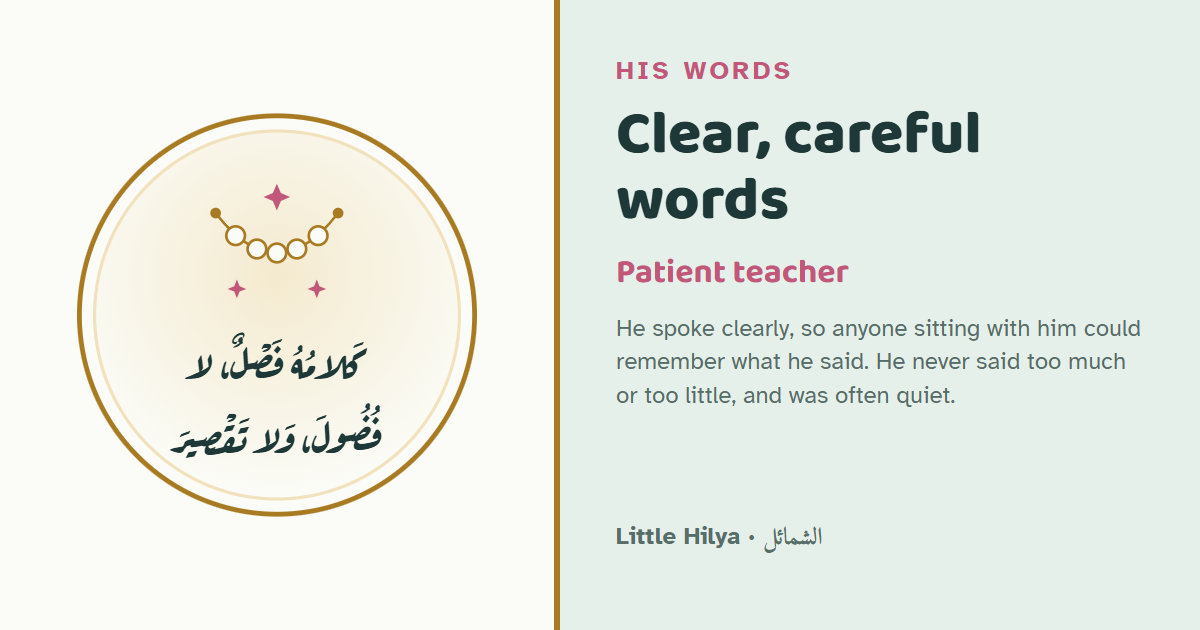
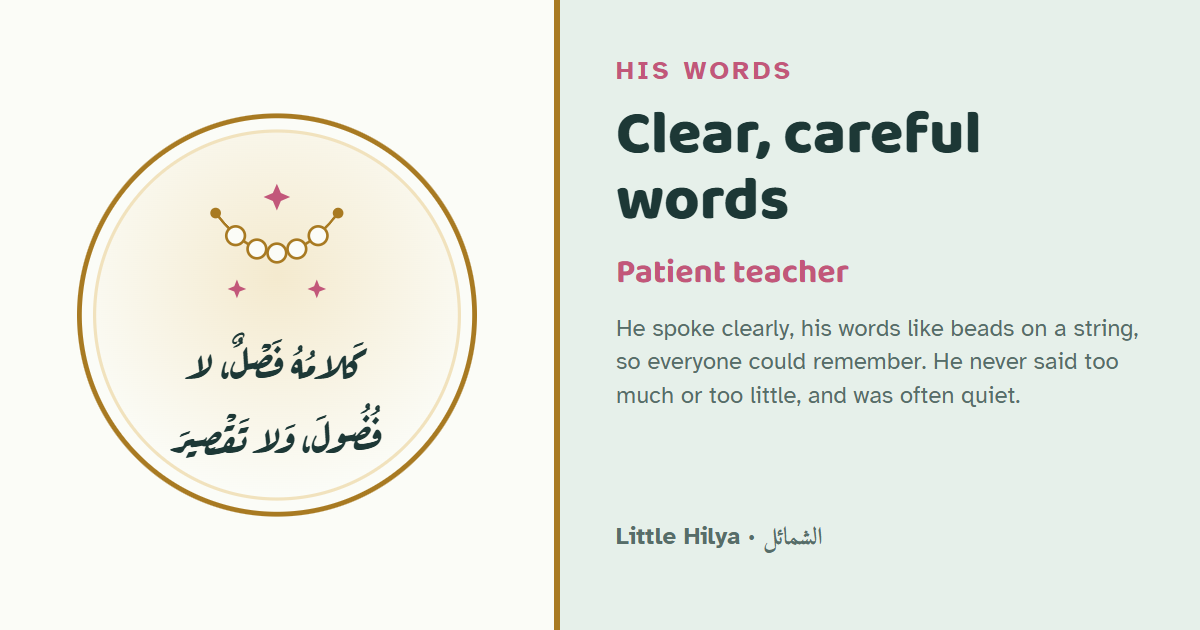
Add Umm Ma'bad's beads, 'A'isha's countable words and the silence reports to the speech station

Changed region(s): [[0.4933, 0.5127, 0.9558, 0.6635]]

diff --git a/src/data/stations/13-speech.ts b/src/data/stations/13-speech.ts
@@ -7,24 +7,52 @@ export default defineStation({
   icon: "pearls",
   phrase: "كَلامُهُ فَصْلٌ، لا فُضُولَ، وَلا تَقْصِيرَ",
   title: "Clear, careful words",
-  line: "He spoke clearly, so anyone sitting with him could remember what he said. He never said too much or too little, and was often quiet.",
+  line: "He spoke clearly, his words like beads on a string, so everyone could remember. He never said too much or too little, and was often quiet.",
   physical: [
     {
       ref: "shamail:224",
       phrase: "كَلامُهُ فَصْلٌ، لا فُضُولَ، وَلا تَقْصِيرَ",
       gloss: "His speech was concise, neither excessive nor abridged.",
+      note: "Faṣl: clear, separating truth from falsehood (al-Nihāya, al-Haytamī); or each phrase set apart so the listener is not muddled or rushed; or the just middle between too much and too little, which “no excess, no falling short” then explains (al-Qārī).",
+    },
+    {
+      ref: "hakim:4274",
+      phrase: "حُلْوُ الْمَنْطِقِ، فَصْلًا، لَا نَزْرٌ وَلَا هَذْرٌ، كَأَنَّ مَنْطِقَهُ خَرَزَاتُ نَظْمٍ يَتَحَدَّرْنَ",
+      gloss:
+        "Sweet of speech, clear and distinct, neither too little nor rambling, as if his words were beads on a string, coming down one after another.",
+      note: "Umm Maʿbad, a second witness to Hind’s “neither excessive nor abridged”. Nazr is too little, as when someone struggles to speak (al-Nihāya); hadhr is babbling (Ibn Fāris).",
     },
     {
       ref: "shamail:222",
-      phrase: "يَتَكَلَّمُ بِكَلامٍ بَيِّنٍ فَصْلٍ، يَحْفَظُهُ مَنْ جَلَسَ إِلَيْهِ",
+      phrase: "يَتَكَلَّمُ بِكَلامٍ بَيِّنٍ فَصْلٍ، يَحْفَظُهُ مَنْ جَلَسَ إِلَيْهِ",
       gloss:
         "He would pause periodically, so that those who sat with him would remember what he said.",
       note: "The Arabic says “he spoke clear, distinct speech that whoever sat with him could memorise”; “pause periodically” is an interpretation.",
     },
     {
+      ref: "bukhari:3567",
+      phrase: "كَانَ يُحَدِّثُ حَدِيثًا لَوْ عَدَّهُ الْعَادُّ لأَحْصَاهُ",
+      gloss:
+        "He spoke in such a way that anyone who wanted to count his words could have counted them.",
+      note: "Al-Haytamī: he set his sentences apart so a listener could count them, which helps the words stay in the mind. ʿĀʾisha adds in the same report that he did not rush his words on one after another (lam yakun yasrud).",
+    },
+    {
+      ref: "ibnsad:1/375-4",
+      phrase: "تَرْتِيلٌ وَتَرْسِيلٌ",
+      gloss: "There was a measured, unhurried pace in his speech.",
+      note: "Jābir, through an unnamed shaykh. Al-Nihāya: tarsīl is the same as tartīl, and a man is mutarassil in his speech and his walk when he does not hurry.",
+    },
+    {
       ref: "shamail:224",
-      phrase: "طَوِيلُ السَّكْتِ، لا يَتَكَلَّمُ فِي غَيْرِ حَاجَةٍ",
+      phrase: "طَوِيلُ السَّكْتِ، لا يَتَكَلَّمُ فِي غَيْرِ حَاجَةٍ",
       gloss: "Prolonged in silence. He would not speak unnecessarily.",
+      note: "Lisān al-ʿArab: a man is called sikkīt when he speaks little, not from being unable to: when he speaks, he speaks well. In al-Ṭabarānī’s wording of Hind’s report, his silence was for four things: forbearance, caution, weighing things up and reflection.",
+    },
+    {
+      ref: "ahmad:20810",
+      phrase: "وَكَانَ طَوِيلَ الصَّمْتِ",
+      gloss: "And he was often silent.",
+      note: "Jābir ibn Samura, by a connected chain: the same as Hind’s طَوِيلُ السَّكْتِ.",
     },
   ],
   character: [
@@ -32,14 +60,29 @@ export default defineStation({
       trait: "Patient teacher",
       line: "He would repeat his words three times so that everyone could understand.",
       ref: "shamail:223",
-      basis: "reflection",
+      basis: "classical",
+      note: "Al-Ḥākim’s wording (hakim:7716) adds “so that it would be understood from him”. Al-Haytamī: this came from his tender care for his community, and shows that a teacher should speak unhurriedly and repeat three times until understood.",
       review: draft(),
     },
     {
       trait: "Thankful",
+      line: "He made much of every blessing, however small, and never found fault with it.",
+      ref: "shamail:224",
+      basis: "reflection",
+      review: draft(),
+    },
+    {
+      trait: "Content",
       line: "He never said a bad word about any food. If he liked it, he ate it, and if not, he simply left it.",
       ref: "bukhari:3563",
       basis: "reflection",
+      review: draft(),
+    },
+    {
+      trait: "Mindful",
+      line: "When he spoke, he was remembering Allah, and when he was quiet, he was thinking.",
+      ref: "qari-jam:2/11",
+      basis: "classical",
       review: draft(),
     },
   ],
@@ -49,6 +92,20 @@ export default defineStation({
       title: "Short words, huge meanings",
       line: "He said he was sent with jawāmi‘ al-kalim: short sayings that hold the widest meanings.",
       ref: "bukhari:2977",
+      note: "Al-Nihāya: many meanings in few words. Al-Zuhrī: Allah gathered for him in one or two sayings matters that earlier books set out at length (al-Bayhaqī, Dalāʾil).",
+    },
+    {
+      kind: "khasisa",
+      title: "Words from Allah",
+      line: "Allah says in the Qur’an that he does not speak from his own wishes.",
+      ref: "quran:53:3",
+      note: "The next verse (53:4): “It is naught save an inspiration that is inspired.” Qāḍī ʿIyāḍ (al-Shifāʾ 1/100) reads 53:3 as Allah praising his tongue, beside his heart (53:11) and his sight (53:17).",
+    },
+    {
+      kind: "mujiza",
+      title: "Abū Hurayra’s cloak",
+      line: "He said that whoever spread out his cloak while he spoke would not forget anything he heard. Abū Hurayra spread his, gathered it to his chest, and never forgot anything he heard from him.",
+      ref: "muslim:2492a",
     },
   ],
   mirror: "Say one kind sentence slowly and clearly to the mirror. Who needs to hear it today?",

diff --git a/data/notes/stations.notes.md b/data/notes/stations.notes.md
@@ -87,6 +87,7 @@ These are recorded in `corrections.json`. `src/data/texts.ts` applies only the "
 - **voice**: Minā (abudawud:1957) is labelled mujiza. It could equally be karama.
 - **neck**: "turned all the way round" follows al-Nihāya and al-Qārī on الْتَفَتَ مَعًا/جَمِيعًا. For a scholar: how to word دُمْيَة for children; whether the ʿAlawī chain in bayhaqi-dalail:1/285 strengthens Hind's جِيدُ دُمْيَة; whose grade the hakim:4274 field is (al-Ḥākim's or al-Dhahabī's) and the chain through Ḥizām ibn Hishām; Ibn Saʿd's unnamed Anṣārī (ibnsad:1/410-2). Umāma (darimi:1399) sits here for its «عَلَى عُنُقِهِ»; Abū Jahl's threat (bukhari:4958) is grown-up only.
 - **fragrance**: the trail sign (darimi:67) is ungraded and every route runs through Isḥāq ibn al-Faḍl; Abū Yaʿlā and al-Bazzār, which al-Qārī cites «بسند صحيح», are not in the corpus. The hand-and-scent reports (darimi:1407, muslim:2329) are split: the scent here, the touch on **hands**.
+- **speech**: Hind's wording in the Shamāʾil (#224) has «يَفْتَتِحُ الْكَلامَ وَيَخْتِمُهُ بِاسْمِ اللهِ», where al-Ṭabarānī and al-Bayhaqī have «بِأَشْدَاقِهِ» (fully, with the whole mouth); the station uses neither until a scholar rules on the reading. Jābir's «تَرْتِيلٌ وَتَرْسِيلٌ» (ibnsad:1/375-4) comes through an unnamed shaykh. The “Mindful” trait quotes al-Qārī's own summary (qari-jam:2/11), not a report.
 - **feet** and **mouth** use saliva and foot-strike reports. The kid lines say "put a little of his saliva" and "struck it with his foot", matching the dataset English.
 - Station phrases were copied from the dataset. `bun run check` checks that each one occurs in its hadith's Arabic, ignoring voweling and punctuation.
 
